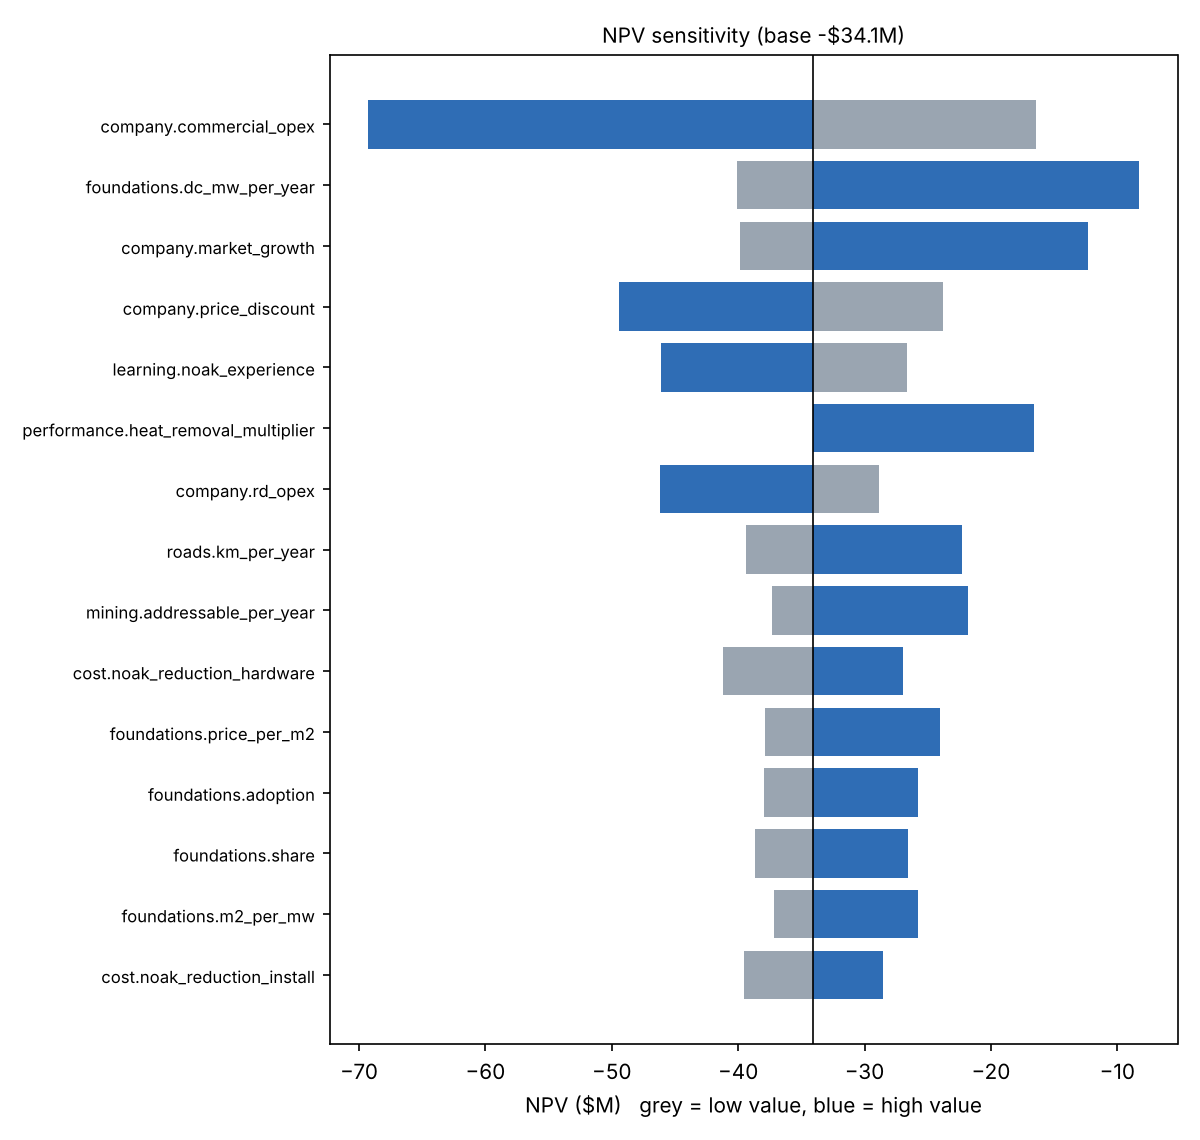
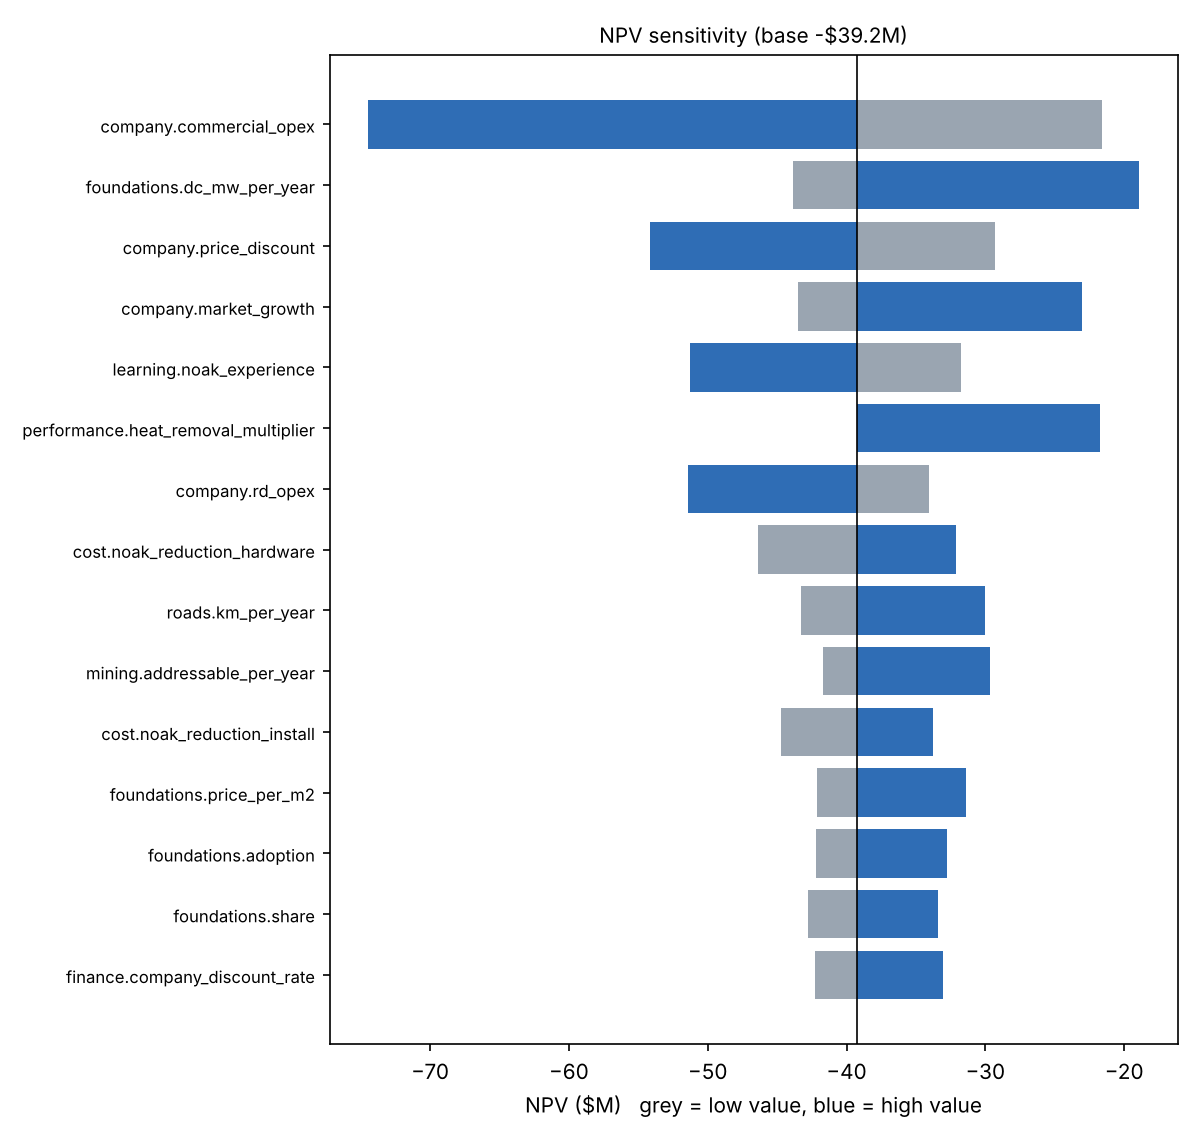
Consistency audit: capex, G&A and shared remaining-life rule
Adds equipment capex and the 3% G&A share used by the prefab and SAF TEAs,
applies the shared rule for remaining-life cash after the horizon (none here),
syncs the shared framework, and regenerates results.

Claude-Session: https://claude.ai/code/session_01RgAFQLSZ2jN8BhTUDBM6nH

diff --git a/tea/framework/report.py b/tea/framework/report.py
@@ -74,13 +74,15 @@ def _write_csv(path: Path, rows: list[dict]) -> None:
     if not rows:
         return
     with open(path, "w", newline="") as f:
-        w = csv.DictWriter(f, fieldnames=list(rows[0]))
+        fields = list(dict.fromkeys(k for r in rows for k in r))  # union of keys, first-seen order
+        w = csv.DictWriter(f, fieldnames=fields, restval=0)
         w.writeheader()
         w.writerows(rows)
 
 
 def write_report(result: StandardResult, params, v: dict, run, out: Path, meta: dict,
-                 breakevens: list[dict] | None = None, draws: int | None = None) -> str:
+                 breakevens: list[dict] | None = None, draws: int | None = None,
+                 scenarios: list[tuple[str, dict]] | None = None) -> str:
     out.mkdir(parents=True, exist_ok=True)
     npv_of = lambda x: run(x).npv  # noqa: E731
 
@@ -134,24 +136,32 @@ def write_report(result: StandardResult, params, v: dict, run, out: Path, meta: 
     L += ["## Customer cost vs BAU", ""]
     for fu in result.functional_units:
         name, proj = fu.project
-        L += [f"**{fu.label}** ({fu.unit})", "", "| Option | Annual cost | vs ours |", "|---|---|---|"]
+        fmt = money if "$" in fu.unit else (lambda x: f"{x:,.1f}")
+        L += [f"**{fu.label}** ({fu.unit})", "", "| Option | Value | vs ours |", "|---|---|---|"]
         for k, val in fu.options.items():
-            L.append(f"| {k} | {money(val)} | {val / proj:.2f}x |")
+            L.append(f"| {k} | {fmt(val)} | {val / proj:.2f}x |")
         if fu.note:
             L += ["", fu.note]
         L.append("")
 
+    for title, headers, rows in result.tables:
+        L += [f"**{title}**", "", "| " + " | ".join(headers) + " |", "|" + "---|" * len(headers)]
+        L += ["| " + " | ".join(r) + " |" for r in rows]
+        L += [""]
     L += ["## FOAK to NOAK", "", "Cost multiplier vs the incumbent's cost for each component (1.00 = incumbent).", "",
           "| Component | FOAK | NOAK |", "|---|---|---|"]
     for c, (f, n) in result.learning.items():
         L.append(f"| {c} | {f:.2f} | {n:.2f} |")
     L.append("")
 
-    L += ["## Cash flow", "", "| Year | Phase | Revenue | Gross profit | Operating cost | EBIT | Cumulative | Cost vs incumbent |",
-          "|---|---|---|---|---|---|---|---|"]
+    has_capex = any(r.capex for r in result.years)
+    cap_h, cap_s = (" Capex |", "---|") if has_capex else ("", "")
+    L += ["## Cash flow", "", f"| Year | Phase | Revenue | Gross profit | Operating cost | EBIT |{cap_h} Cumulative cash | Cost vs incumbent |",
+          f"|---|---|---|---|---|---|{cap_s}---|---|"]
     for r in result.years:
+        cap = f" {money(r.capex)} |" if has_capex else ""
         L.append(f"| {r.year} | {r.phase} | {money(r.revenue)} | {money(r.gross_profit)} | {money(r.operating_cost)} | "
-                 f"{money(r.ebit)} | {money(r.cumulative_cash)} | {r.cost_multiplier:.2f} |")
+                 f"{money(r.ebit)} |{cap} {money(r.cumulative_cash)} | {r.cost_multiplier:.2f} |")
     L += ["", "Revenue in the final year by stream:", ""]
     for k, val in last.revenue_by_stream.items():
         if val:
@@ -163,6 +173,13 @@ def write_report(result: StandardResult, params, v: dict, run, out: Path, meta: 
         for b in breakevens:
             ans = "no crossing in range" if b["answer"] is None else _num(b["answer"])
             L.append(f"| {b['question']} | {ans} | {_num(b['base'])} |")
+        L.append("")
+
+    if scenarios:
+        L += ["## Scenarios", "", "| Scenario | NPV | Final-year revenue | Peak cash need |", "|---|---|---|---|"]
+        for name, overrides in scenarios:
+            r_ = run({**v, **overrides})
+            L.append(f"| {name} | {money(r_.npv)} | {money(r_.full_scale_revenue)} | {money(r_.peak_cash_need)} |")
         L.append("")
 
     L += ["## Sensitivity (one input at a time)", ""]

diff --git a/tea/thermosyphon_platform.py b/tea/thermosyphon_platform.py
@@ -104,6 +104,7 @@ def run(v) -> StandardResult:
 
     experience = v["learning.first_year_experience"]
     installed_base = 0.0
+    peak_installed = 0.0
     cumulative = 0.0
     rows: list[YearRow] = []
     learning_investment = 0.0
@@ -136,19 +137,33 @@ def run(v) -> StandardResult:
         revenue = sum(streams.values())
         cos = cost_of_sales + service_cost + grants  # grants pay for research of equal cost
         gross = revenue - cos
-        opex = v["company.rd_opex"] if phase == "R&D" else v["company.commercial_opex"]
+        opex = v["company.rd_opex"] if phase == "R&D" else v["company.commercial_opex"] + revenue * v["company.ga_share"]
         ebit = gross - opex
-        cumulative += ebit
+        capex = max(installed - peak_installed, 0.0) * v["company.capex_per_installed"]
+        peak_installed = max(peak_installed, installed)
+        cumulative += ebit - capex
         rows.append(YearRow(t, phase, revenue, cos, gross, opex, ebit, cumulative,
-                            unit_cost / v["company.incumbent_cost_share"], streams))
+                            unit_cost / v["company.incumbent_cost_share"], streams, capex))
 
         experience += installed
         installed_base += installed
         if noak_year is None and experience >= v["learning.noak_experience"]:
             noak_year = t
 
-    cash = [r.ebit for r in rows]
+    cash = [r.ebit - r.capex for r in rows]
     rate = v["finance.company_discount_rate"]
+    # Remaining life of what was built (same rule in all three finalist TEAs): no new sales after the
+    # horizon; the installed base keeps paying for services; overhead continues; stop when cash turns negative.
+    tail = []
+    service_margin = installed_base * attach * (v["services.monitoring_fee"] * v["services.monitoring_margin"]
+                                                + v["services.maintenance_fee"] * v["services.maintenance_margin"])
+    service_rev = installed_base * attach * (v["services.monitoring_fee"] + v["services.maintenance_fee"])
+    for _ in range(int(v["company.service_tail_years"])):
+        c = service_margin - v["company.commercial_opex"] - service_rev * v["company.ga_share"]
+        if c <= 0:
+            break
+        tail.append(c)
+    npv_horizon = npv(rate, cash)
     went_negative = False
     breakeven_year = None
     for r in rows:
@@ -177,8 +192,8 @@ def run(v) -> StandardResult:
     return StandardResult(
         project="Thermosyphon platform (Project Cryo)",
         years=rows,
-        npv=npv(rate, cash),
-        irr=irr(cash),
+        npv=npv(rate, cash + tail),
+        irr=irr(cash + tail),
         peak_cash_need=-min(0.0, min(r.cumulative_cash for r in rows)),
         breakeven_year=breakeven_year,
         full_scale_revenue=rows[-1].revenue,
@@ -188,7 +203,9 @@ def run(v) -> StandardResult:
         learning_investment=learning_investment,
         kill_metrics=kills,
         notes=[
-            "Cash flow is EBIT: no taxes, working capital or capital equipment, and no terminal value.",
+            "Cash flow is operating profit less capex: pre-tax, no working capital.",
+            f"NPV includes remaining-life cash from the installed base (services only, no new sales) while it stays positive; "
+            f"{len(tail)} tail years counted. NPV over the 15-yr horizon alone: ${npv_horizon / 1e6:,.1f}M.",
             "Customer price is value-based (incumbent price less a discount), so our cost cuts become margin, not lower customer cost.",
         ],
     )

diff --git a/scripts/run_tea.py b/scripts/run_tea.py
@@ -1,8 +1,8 @@
 """Run any project's TEA through the standard framework.
 
 Usage:
-    python scripts/run_tea.py thermosyphon_platform
-    python scripts/run_tea.py thermosyphon_platform --inputs inputs/my_case.toml --out results/my_case
+    python scripts/run_tea.py saf_msw_ft
+    python scripts/run_tea.py saf_msw_ft --inputs inputs/my_case.toml --out results/my_case
 """
 from __future__ import annotations
 
@@ -18,6 +18,15 @@ from tea.framework.report import write_report  # noqa: E402
 from tea.inputs import base_values, load_meta, load_params  # noqa: E402
 
 
+def load_project_params(inputs: Path) -> dict:
+    """Conventions, then any files listed in the project's [meta] include = [...], then the project file."""
+    params = load_params(ROOT / "inputs" / "conventions.toml")
+    for name in load_meta(inputs).get("include", []):
+        params.update(load_params(ROOT / "inputs" / name))
+    params.update(load_params(inputs))
+    return params
+
+
 def main() -> None:
     ap = argparse.ArgumentParser(description=__doc__)
     ap.add_argument("project", help="module name in tea/, e.g. thermosyphon_platform")
@@ -29,12 +38,13 @@ def main() -> None:
     mod = importlib.import_module(f"tea.{args.project}")
     inputs = Path(args.inputs or ROOT / "inputs" / f"{args.project}.toml")
     out = Path(args.out or ROOT / "results" / args.project)
-    params = {**load_params(ROOT / "inputs" / "conventions.toml"), **load_params(inputs)}
+    params = load_project_params(inputs)
     meta = {**load_meta(ROOT / "inputs" / "conventions.toml"), **load_meta(inputs)}
     v = base_values(params)
     result = mod.run(v)
     be = mod.breakevens(v) if hasattr(mod, "breakevens") else None
-    print(write_report(result, params, v, mod.run, out, meta, be, args.draws))
+    sc = mod.scenarios(v) if hasattr(mod, "scenarios") else None
+    print(write_report(result, params, v, mod.run, out, meta, be, args.draws, sc))
 
 
 if __name__ == "__main__":

diff --git a/tests/test_thermosyphon_platform.py b/tests/test_thermosyphon_platform.py
@@ -54,7 +54,8 @@ def test_no_markets_loses_only_operating_cost(v):
             "roads.km_per_year": 0, "mining.addressable_per_year": 0, "cold_bank.mw_per_year": 0}
     res = run(zero)
     rd = int(v["company.rd_years"])
-    expected = -sum((v["company.rd_opex"] if t <= rd else v["company.commercial_opex"]) / 1.1 ** t
+    ga = v["company.ga_share"] * v["glacier.grants"]  # grants are the only revenue left
+    expected = -sum((v["company.rd_opex"] if t <= rd else v["company.commercial_opex"] + ga) / 1.1 ** t
                     for t in range(1, int(v["finance.horizon"]) + 1))
     assert res.npv == pytest.approx(expected)
 
@@ -67,3 +68,9 @@ def test_report_writes_standard_outputs(tmp_path, params, v):
     for section in ("## Headline", "## Customer cost vs BAU", "## FOAK to NOAK", "## Monte Carlo", "## Kill metrics", "## Scorecard"):
         assert section in text
     assert (tmp_path / "cashflow.csv").exists() and (tmp_path / "inputs_used.csv").exists()
+
+
+def test_capex_only_on_added_capacity(v):
+    res = run(v)
+    assert all(r.capex >= 0 for r in res.years)
+    assert sum(r.capex for r in res.years) > 0

diff --git a/tea/framework/result.py b/tea/framework/result.py
@@ -16,6 +16,7 @@ class YearRow:
     cumulative_cash: float
     cost_multiplier: float  # blended cost vs incumbent; 1.0 = incumbent cost
     revenue_by_stream: dict[str, float] = field(default_factory=dict)
+    capex: float = 0.0  # capital spent this year (cumulative_cash already nets it out)
 
 
 @dataclass
@@ -63,3 +64,4 @@ class StandardResult:
     learning_investment: float  # extra cost paid above NOAK cost while learning
     kill_metrics: list[KillMetric]
     notes: list[str] = field(default_factory=list)
+    tables: list[tuple[str, list[str], list[list[str]]]] = field(default_factory=list)  # (title, headers, rows)

diff --git a/results/thermosyphon_platform/summary.md b/results/thermosyphon_platform/summary.md
@@ -12,21 +12,21 @@
 
 | Metric | Value |
 |---|---|
-| NPV | -$34.1M |
-| IRR | -23% |
-| Probability NPV > 0 (Monte Carlo) | 39% |
-| Peak cash need | $51.9M |
+| NPV | -$39.2M |
+| IRR | -36% |
+| Probability NPV > 0 (Monte Carlo) | 25% |
+| Peak cash need | $60.7M |
 | Cash breakeven year | not within horizon |
 | Revenue in final year | $28.9M |
 | NOAK reached in year | not within horizon |
 | Extra cost paid while learning (FOAK to NOAK) | $24.5M |
-| NPV if costs started at NOAK (no learning period) | -$22.0M |
+| NPV if costs started at NOAK (no learning period) | -$27.1M |
 
 ## Customer cost vs BAU
 
 **Permafrost foundation** ($/m2 protected per yr)
 
-| Option | Annual cost | vs ours |
+| Option | Value | vs ours |
 |---|---|---|
 | Entrant at NOAK price | $26 | 1.00x |
 | Incumbent thermosyphons | $33 | 1.23x |
@@ -36,7 +36,7 @@ Alternatives such as gravel pads or piles can't be priced per m2 from public dat
 
 **Road or runway on warm permafrost** ($/km protected per yr)
 
-| Option | Annual cost | vs ours |
+| Option | Value | vs ours |
 |---|---|---|
 | Entrant at NOAK price | $376,164 | 1.00x |
 | Repair as it settles | $22,000 | 0.06x |
@@ -59,23 +59,23 @@ Cost multiplier vs the incumbent's cost for each component (1.00 = incumbent).
 
 ## Cash flow
 
-| Year | Phase | Revenue | Gross profit | Operating cost | EBIT | Cumulative | Cost vs incumbent |
-|---|---|---|---|---|---|---|---|
-| 1 | R&D | $200,000 | $0 | $8.0M | -$8.0M | -$8.0M | 1.26 |
-| 2 | R&D | $200,000 | $0 | $8.0M | -$8.0M | -$16.0M | 1.26 |
-| 3 | commercial | $1.6M | -$269,257 | $6.0M | -$6.3M | -$22.3M | 1.26 |
-| 4 | commercial | $4.8M | -$626,860 | $6.0M | -$6.6M | -$28.9M | 1.21 |
-| 5 | commercial | $9.8M | -$474,969 | $6.0M | -$6.5M | -$35.4M | 1.12 |
-| 6 | commercial | $17.1M | $641,482 | $6.0M | -$5.4M | -$40.7M | 1.03 |
-| 7 | commercial | $18.2M | $2.0M | $6.0M | -$4.0M | -$44.7M | 0.95 |
-| 8 | commercial | $19.3M | $3.0M | $6.0M | -$3.0M | -$47.7M | 0.91 |
-| 9 | commercial | $20.5M | $3.8M | $6.0M | -$2.2M | -$49.8M | 0.88 |
-| 10 | commercial | $21.7M | $4.6M | $6.0M | -$1.4M | -$51.2M | 0.85 |
-| 11 | commercial | $23.0M | $5.3M | $6.0M | -$656,157 | -$51.9M | 0.83 |
-| 12 | commercial | $24.4M | $6.1M | $6.0M | $69,721 | -$51.8M | 0.82 |
-| 13 | commercial | $25.8M | $6.8M | $6.0M | $800,393 | -$51.0M | 0.80 |
-| 14 | commercial | $27.3M | $7.5M | $6.0M | $1.5M | -$49.5M | 0.79 |
-| 15 | commercial | $28.9M | $8.3M | $6.0M | $2.3M | -$47.2M | 0.78 |
+| Year | Phase | Revenue | Gross profit | Operating cost | EBIT | Capex | Cumulative cash | Cost vs incumbent |
+|---|---|---|---|---|---|---|---|---|
+| 1 | R&D | $200,000 | $0 | $8.0M | -$8.0M | $0 | -$8.0M | 1.26 |
+| 2 | R&D | $200,000 | $0 | $8.0M | -$8.0M | $0 | -$16.0M | 1.26 |
+| 3 | commercial | $1.6M | -$269,257 | $6.0M | -$6.3M | $254,250 | -$22.6M | 1.26 |
+| 4 | commercial | $4.8M | -$626,860 | $6.1M | -$6.8M | $546,638 | -$29.9M | 1.21 |
+| 5 | commercial | $9.8M | -$474,969 | $6.3M | -$6.8M | $880,976 | -$37.5M | 1.12 |
+| 6 | commercial | $17.1M | $641,482 | $6.5M | -$5.9M | $1.3M | -$44.7M | 1.03 |
+| 7 | commercial | $18.2M | $2.0M | $6.5M | -$4.5M | $147,163 | -$49.3M | 0.95 |
+| 8 | commercial | $19.3M | $3.0M | $6.6M | -$3.6M | $154,521 | -$53.0M | 0.91 |
+| 9 | commercial | $20.5M | $3.8M | $6.6M | -$2.8M | $162,247 | -$56.0M | 0.88 |
+| 10 | commercial | $21.7M | $4.6M | $6.7M | -$2.0M | $170,360 | -$58.2M | 0.85 |
+| 11 | commercial | $23.0M | $5.3M | $6.7M | -$1.3M | $178,878 | -$59.7M | 0.83 |
+| 12 | commercial | $24.4M | $6.1M | $6.7M | -$661,418 | $187,822 | -$60.6M | 0.82 |
+| 13 | commercial | $25.8M | $6.8M | $6.8M | $26,261 | $197,213 | -$60.7M | 0.80 |
+| 14 | commercial | $27.3M | $7.5M | $6.8M | $725,398 | $207,073 | -$60.2M | 0.79 |
+| 15 | commercial | $28.9M | $8.3M | $6.9M | $1.4M | $217,427 | -$59.0M | 0.78 |
 
 Revenue in the final year by stream:
 
@@ -91,9 +91,9 @@ Revenue in the final year by stream:
 
 | Question | Answer | Base input |
 |---|---|---|
-| Arctic data center MW/yr for NPV = 0 | 1,232 | 250 |
+| Arctic data center MW/yr for NPV = 0 | 1,662 | 250 |
 | Price discount at which NPV = 0 | no crossing in range | 0.15 |
-| Mining freeze-work $/yr for NPV = 0 | 109,296,529 | 15,000,000 |
+| Mining freeze-work $/yr for NPV = 0 | 150,553,007 | 15,000,000 |
 | Incumbent road cost per km at which our NOAK cost equals repairing as it settles | 261,378 | 4,200,000 |
 
 ## Sensitivity (one input at a time)
@@ -102,21 +102,21 @@ Revenue in the final year by stream:
 
 | Input | Low | NPV at low | High | NPV at high |
 |---|---|---|---|---|
-| `company.commercial_opex` | 3,000,000 | -$16.4M | 12,000,000 | -$69.3M |
-| `foundations.dc_mw_per_year` | 50 | -$40.1M | 1,000 | -$8.3M |
-| `company.market_growth` | 0.0 | -$39.8M | 0.15 | -$12.3M |
-| `company.price_discount` | 0.05 | -$23.8M | 0.3 | -$49.4M |
-| `learning.noak_experience` | 100,000,000 | -$26.6M | 1,000,000,000 | -$46.1M |
-| `performance.heat_removal_multiplier` | 1.0 | -$34.1M | 1.5 | -$16.6M |
-| `company.rd_opex` | 5,000,000 | -$28.9M | 15,000,000 | -$46.2M |
-| `roads.km_per_year` | 0.5 | -$39.4M | 8 | -$22.3M |
-| `mining.addressable_per_year` | 5,000,000 | -$37.3M | 50,000,000 | -$21.8M |
-| `cost.noak_reduction_hardware` | 0.2 | -$41.2M | 0.6 | -$26.9M |
-| `foundations.price_per_m2` | 177 | -$37.9M | 600 | -$24.0M |
-| `foundations.adoption` | 0.2 | -$37.9M | 0.8 | -$25.7M |
-| `foundations.share` | 0.2 | -$38.7M | 0.7 | -$26.6M |
-| `foundations.m2_per_mw` | 300 | -$37.2M | 1,000 | -$25.7M |
-| `cost.noak_reduction_install` | 0.0 | -$39.6M | 0.3 | -$28.6M |
+| `company.commercial_opex` | 3,000,000 | -$21.6M | 12,000,000 | -$74.5M |
+| `foundations.dc_mw_per_year` | 50 | -$43.8M | 1,000 | -$18.9M |
+| `company.price_discount` | 0.05 | -$29.3M | 0.3 | -$54.2M |
+| `company.market_growth` | 0.0 | -$43.5M | 0.15 | -$23.1M |
+| `learning.noak_experience` | 100,000,000 | -$31.8M | 1,000,000,000 | -$51.3M |
+| `performance.heat_removal_multiplier` | 1.0 | -$39.2M | 1.5 | -$21.7M |
+| `company.rd_opex` | 5,000,000 | -$34.0M | 15,000,000 | -$51.4M |
+| `cost.noak_reduction_hardware` | 0.2 | -$46.4M | 0.6 | -$32.1M |
+| `roads.km_per_year` | 0.5 | -$43.3M | 8 | -$30.0M |
+| `mining.addressable_per_year` | 5,000,000 | -$41.7M | 50,000,000 | -$29.6M |
+| `cost.noak_reduction_install` | 0.0 | -$44.7M | 0.3 | -$33.7M |
+| `foundations.price_per_m2` | 177 | -$42.2M | 600 | -$31.4M |
+| `foundations.adoption` | 0.2 | -$42.2M | 0.8 | -$32.7M |
+| `foundations.share` | 0.2 | -$42.8M | 0.7 | -$33.4M |
+| `finance.company_discount_rate` | 0.08 | -$42.3M | 0.15 | -$33.0M |
 
 ## Monte Carlo
 
@@ -124,7 +124,7 @@ Revenue in the final year by stream:
 
 | P10 | P50 | P90 | P(NPV > 0) |
 |---|---|---|---|
-| -$43.0M | -$9.5M | $51.6M | 39% |
+| -$50.8M | -$20.8M | $28.3M | 25% |
 
 ![Monte Carlo](monte_carlo.png)
 
@@ -136,7 +136,7 @@ Revenue in the final year by stream:
 | 10x test: incumbent life-cycle cost / ours at NOAK cost (foundations) | 1.72 x | 10.00 | no |
 | Roads: our NOAK cost vs repairing as it settles | 12.30 x (<=1 to win) | 1.00 | no |
 | Revenue at full scale vs big-enough line | 0.03 x | 1.00 | no |
-| Probability NPV > 0 | 39% | 50% | no |
+| Probability NPV > 0 | 25% | 50% | no |
 
 ## Scorecard
 
@@ -156,6 +156,7 @@ Economics is scored from P(NPV > 0); the rest are judgment scores set in the inp
 
 ## Notes
 
-- Cash flow is EBIT: no taxes, working capital or capital equipment, and no terminal value.
+- Cash flow is operating profit less capex: pre-tax, no working capital.
+- NPV includes remaining-life cash from the installed base (services only, no new sales) while it stays positive; 0 tail years counted. NPV over the 15-yr horizon alone: $-39.2M.
 - Customer price is value-based (incumbent price less a discount), so our cost cuts become margin, not lower customer cost.
 

diff --git a/README.md b/README.md
@@ -26,7 +26,7 @@ Python 3.11+. Matplotlib is optional (charts).
 
 ## Thermosyphon platform v2: base case
 
-NPV about **-$34M** over 15 years, peak cash need about **$52M**, revenue about **$29M** in year 15, and a 39% chance of NPV > 0 across the input ranges. It fails all four kill metrics: NOAK cost is 24% below the incumbent (target 30%), well short of the 10x target, roads cost 12x more than repairing them as they settle, and revenue is ~3% of the big-enough line. Full output: `results/thermosyphon_platform/summary.md`.
+NPV about **-$39M**, peak cash need about **$61M**, revenue about **$29M** in year 15, and a 25% chance of NPV > 0 across the input ranges (after the consistency audit added equipment capex and a 3% G&A share; the installed base's service income never covers overhead, so no remaining-life cash is counted). It fails all four kill metrics: NOAK cost is 24% below the incumbent (target 30%), well short of the 10x target, roads cost 12x more than repairing them as they settle, and revenue is ~3% of the big-enough line. Full output: `results/thermosyphon_platform/summary.md`.
 
 ### Changes from v1
 
@@ -45,3 +45,12 @@ v1 is in the git history (commit `b5bfb19`).
 - Prices are value-based (incumbent less a discount), so cost cuts show up as margin, not lower customer prices.
 - Gravel pads, piles and ventilated foundations can't be priced per m² from public data, so foundations are compared only with incumbent thermosyphons.
 - Many inputs are assumptions and are flagged in the inputs file; most ranges lean to the upside of a cautious base, which is why the Monte Carlo median sits above the base case.
+
+## Consistency audit (Nov 2026)
+
+Aligned with the prefab-homes and SAF TEAs so the three finalists compare apples to apples:
+
+- Added equipment capex (fabrication shop, drill rigs): $0.15 per $ of added peak annual installed value.
+- Added the shared 3% G&A share of revenue.
+- Shared remaining-life rule: after the 15-year horizon, assets already built keep earning (here, services on the installed base) with no new sales, counted only while cash stays positive. For this model that adds nothing.
+- Synced the shared framework (capex column, extra tables, include-aware `run_tea.py`).
